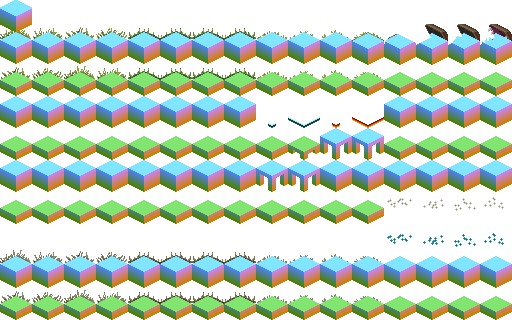
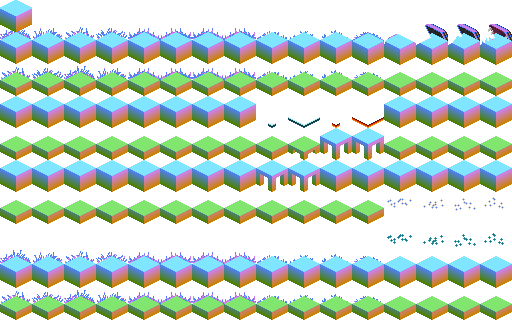
basic shaders working

diff --git a/lib/components/level/rendering/chunk.dart b/lib/components/level/rendering/chunk.dart
@@ -9,7 +9,9 @@ import 'package:mpg_achievements_app/components/level/isometric/isometric_render
 import 'package:mpg_achievements_app/components/level/isometric/isometric_tiled_component.dart';
 import 'package:mpg_achievements_app/components/level/rendering/game_tile_map.dart';
 import 'package:mpg_achievements_app/components/level/rendering/tileset_utils.dart';
+import 'package:mpg_achievements_app/components/state_management/providers/playerStateProvider.dart';
 import 'package:mpg_achievements_app/components/util/isometric_utils.dart';
+import 'package:mpg_achievements_app/main.dart';
 
 import '../../../mpg_pixel_adventure.dart';
 import 'game_sprite.dart';
@@ -121,6 +123,12 @@ class Chunk {
 
     reSortTiles([]);
     Future.delayed(Duration(seconds: 1), () => rebuildMaps([]));
+
+    if(!shaderInitialized && !shaderBeingInitialized){
+      shaderBeingInitialized = true;
+      initShader();
+    }
+
   }
 
   static Vector2 worldSize = Vector2.zero();
@@ -388,7 +396,9 @@ class Chunk {
         fy < (y + 1) * chunkSize;
   }
 
-  Paint paint = Paint();
+  Paint shaderPaint = Paint();
+  bool shaderInitialized = false;
+  bool shaderBeingInitialized = false;
   Set<IsometricRenderable> currentAdditionalComponents = {};
   void render(
     Canvas canvas,
@@ -413,9 +423,34 @@ class Chunk {
       rebuildMaps(currentAdditionalComponents);
     }
 
-    if (albedoMap != null) {
-      canvas.drawImage(albedoMap!, offset, paint);
+    if (albedoMap != null && normalAndDepthMap != null && shader != null) {
+
+      Vector2 playerGridPos = gameWidgetKey.currentState!.currentGame.gameWorld.player.gridPos;
+      Vector2 playerWorldPos = toWorldPos(Vector3(playerGridPos.x, playerGridPos.y, 1));
+
+      Vector3 lightPos = Vector3(100, 100, 200);
+
+      shader!.setImageSampler(0, albedoMap!);
+      shader!.setImageSampler(1, normalAndDepthMap!);
+      shader!.setFloatUniforms((val) {
+        val.setFloats([
+          albedoWorldTopLeft!.x, albedoWorldTopLeft!.y,
+          albedoWidth.toDouble(), albedoHeight.toDouble(),
+          lightPos.x, lightPos.y, lightPos.z,
+          0.5,
+        ]);
+      });
+
+      shaderPaint.shader = shader;
+      //canvas.drawImage(albedoMap!, offset, shaderPaint);
+      canvas.drawRect(offset & Size(albedoWidth.toDouble(),albedoHeight.toDouble()), shaderPaint);
     }
+  }
+
+  FragmentShader? shader;
+  void initShader() async{
+    FragmentProgram program = await FragmentProgram.fromAsset("assets/shaders/lighting.frag");
+    shader = program.fragmentShader();
   }
 
   static Set<Tileset> knownTilesets = {};

diff --git a/lib/components/level/isometric/tile_effects/highlighted_tile.dart b/lib/components/level/isometric/tile_effects/highlighted_tile.dart
@@ -81,11 +81,10 @@ class TileHighlightRenderable extends PositionComponent
   Vector3 get gridHeadPos => gridFeetPos + Vector3(0.1, 0.1, 1);
 
   @override
-  void Function(Canvas canvas, Paint? overridePaint)? get renderNormal =>
-      (Canvas canvas, Paint? overridePaint) {
-        renderTree(canvas);
-      };
+  void Function(Canvas canvas) get renderAlbedo => (Canvas canvas) {
+    renderTree(canvas);
+  };
   @override
-  void Function(Canvas canvas, {Vector2? position, Vector2? size})
-  get renderAlbedo => (Canvas canvas, {Vector2? position, Vector2? size}) {};
+  void Function(Canvas canvas, Paint? overridePaint) get renderNormal =>
+          (Canvas canvas, Paint? overridePaint) {};
 }

diff --git a/lib/components/level/isometric/tile_effects/explosion_effect.dart b/lib/components/level/isometric/tile_effects/explosion_effect.dart
@@ -47,23 +47,4 @@ class ExplosionEffect extends SpriteAnimationGroupComponent
       stepTime: 0.1,
     ),
   ];
-
-  @override
-  Vector3 get gridFeetPos => gridPos;
-
-  @override
-  RenderCategory get renderCategory => RenderCategory.effect;
-
-  @override
-  Vector3 get gridHeadPos => gridFeetPos + Vector3(2, 2, 20);
-
-  @override
-  // TODO: implement renderAlbedo
-  void Function(Canvas canvas, {Vector2 position, Vector2 size})
-  get renderAlbedo => throw UnimplementedError();
-
-  @override
-  // TODO: implement renderNormal
-  void Function(Canvas canvas, {Vector2 position, Vector2 size})?
-  get renderNormal => throw UnimplementedError();
 }
